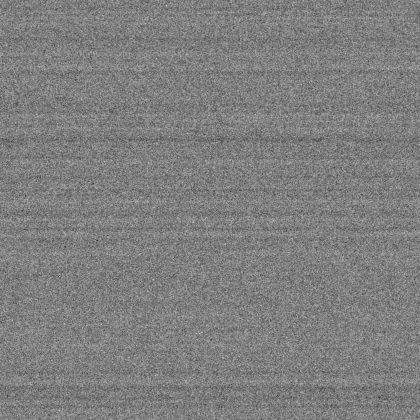
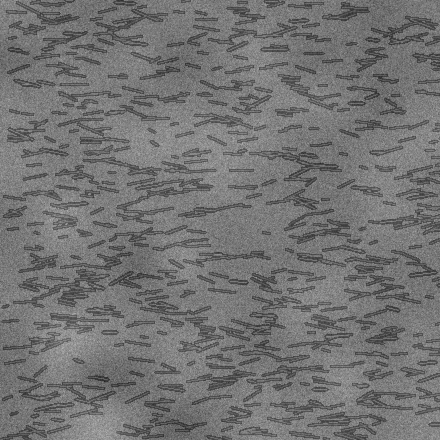
site: 尖叫工业设计教育作品展示站（黑屏粒子开场 + 观影票 + Masonry 单页）

diff --git a/assets/css/site.css b/assets/css/site.css
@@ -390,8 +390,13 @@ html.js .hero__title .u path {
 
 .tk-mid { padding: 10px 0 8px; }
 .tk-k {
-  font-family: var(--mono); font-size: 10.5px; letter-spacing: .2em;
-  color: var(--accent); text-transform: uppercase; margin-bottom: 12px;
+  display: inline-block;
+  padding: 4px 9px 3px;
+  border-radius: 3px;
+  background: var(--accent);
+  color: #1b1a18;
+  font-family: var(--mono); font-size: 10.5px; letter-spacing: .18em;
+  text-transform: uppercase; margin-bottom: 14px;
 }
 .tk-t {
   font-size: clamp(32px, 3.5vw, 50px); line-height: .92;
@@ -400,10 +405,17 @@ html.js .hero__title .u path {
 .tk-bot {
   display: flex; align-items: center; justify-content: space-between; gap: 10px;
   padding-top: 11px;
-  border-top: 1px dashed rgba(255, 255, 255, .22);
-  font-size: 11px; letter-spacing: .06em; opacity: .6;
+  border-top: 1px dashed rgba(92, 76, 48, .3);
+  font-size: 11px; letter-spacing: .06em; opacity: .58;
 }
-.tk-hint { color: var(--accent); opacity: 1; letter-spacing: .1em; }
+.tk-hint {
+  opacity: 1;
+  color: inherit;
+  font-weight: 500;
+  letter-spacing: .08em;
+  padding-bottom: 2px;
+  border-bottom: 2px solid var(--accent);
+}
 
 .tk-stub { width: 100%; height: 100%; display: grid; place-items: center; }
 .tk-stubT {
@@ -413,7 +425,7 @@ html.js .hero__title .u path {
 }
 .tk-stubT em {
   font-family: var(--mono); font-style: normal; font-size: 9.5px;
-  letter-spacing: .2em; opacity: .45;
+  letter-spacing: .2em; opacity: .5;
 }
 
 /* ---------- 开场遮罩：黑屏 + 粒子 + 票据 ---------- */

diff --git a/assets/css/tear-ticket.css b/assets/css/tear-ticket.css
@@ -86,12 +86,17 @@
   position: absolute;
   inset: 0;
   background-color: var(--tt-bg);
-  /* 纸纹 + 轻微的受光渐变，形成黑灰纸质感 */
+  /* 三层纸感：细颗粒纤维 + 大块云斑 + 顶部受光到边缘的轻微压暗 */
   background-image:
     url(../img/paper-grain.webp),
-    linear-gradient(158deg, rgba(255, 255, 255, .055) 0%, rgba(0, 0, 0, .16) 46%, rgba(0, 0, 0, .3) 100%);
-  background-size: 210px auto, 100% 100%;
-  background-blend-mode: soft-light, normal;
+    url(../img/paper-mottle.webp),
+    radial-gradient(140% 125% at 50% -14%,
+      rgba(255, 255, 255, .62) 0%,
+      rgba(255, 255, 255, 0) 42%,
+      rgba(120, 100, 70, .07) 82%,
+      rgba(120, 100, 70, .13) 100%);
+  background-size: 186px auto, 520px auto, 100% 100%;
+  background-blend-mode: soft-light, multiply, normal;
   pointer-events: auto;
 }
 

diff --git a/assets/js/site.js b/assets/js/site.js
@@ -389,9 +389,10 @@
         tiltReach: 340,
         parallax: 6,
         perspective: 1000,
-        background: '#181a1e',
-        stubBackground: '#1f2026',
-        color: '#f2f2f0',
+        background: '#f4efe2',
+        stubBackground: '#ece5d5',
+        color: '#2b2620',
+        borderColor: 'rgba(107, 90, 60, 0.3)',
         border: true,
         borderWidth: 1,
         ariaLabel: '撕开票据，进入网站',
